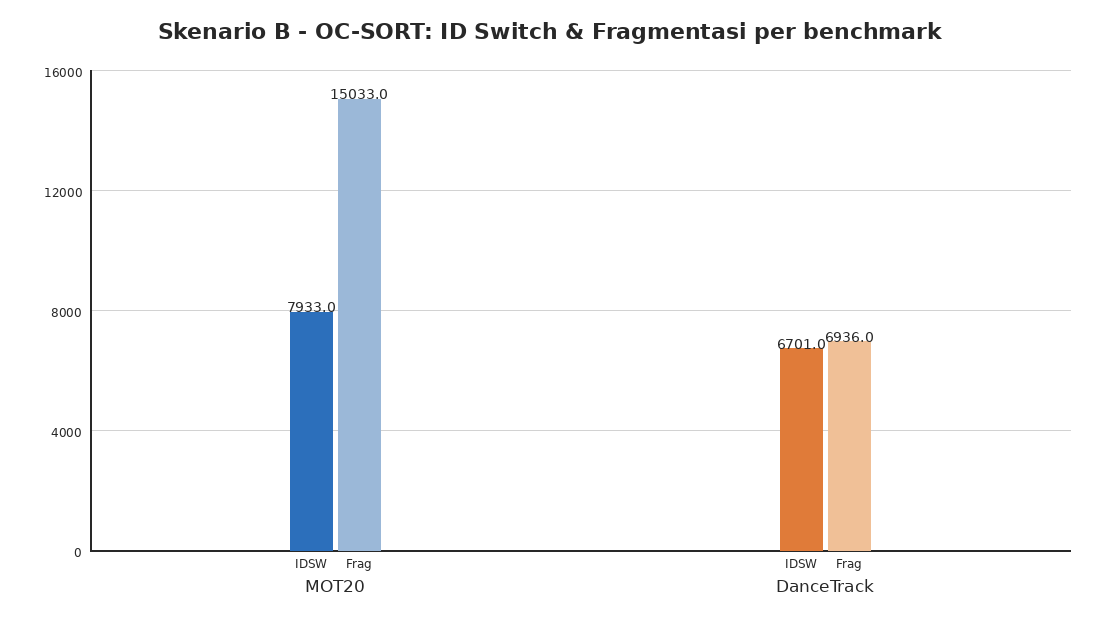
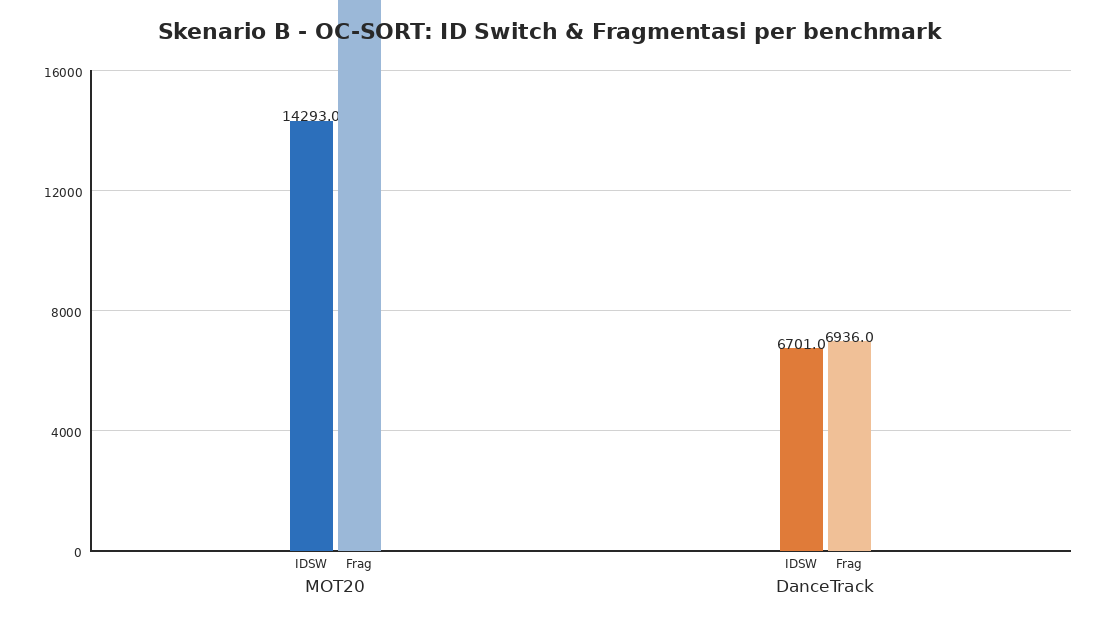
docs: update laporan + PROGRESS ke hasil MOT20 full-sequence (re-run selesai)
- MOT20: HOTA 36,51 / MOTA 55,98 / IDF1 42,88 / IDSW 14.293 / Frag 27.646
  (8.931 frame, 1.595.730 deteksi) — IDSW hampir 2x vs sekuens terpotong
- KOREKSI -> PEMBARUAN: angka kini mewakili MOT20-train penuh; temuan asosiasi rapuh makin kuat
- Figur 1/2/4 diregenerasi dari eval_results + detection_stats baru

Changed region(s): [[0.2473, 0.0, 0.3709, 0.521]]

diff --git a/docs/reports/laporan-skenario-b-tracker.md b/docs/reports/laporan-skenario-b-tracker.md
@@ -10,7 +10,7 @@ Skenario B mengevaluasi lapisan **tracker** dari pipeline *people counting* lima
 
 Temuan utama:
 
-1. **Pada kerumunan padat (MOT20-train), OC-SORT mencapai HOTA 37,46, MOTA 56,13, IDF1 44,67** — akurasi deteksi tinggi (MOTA), tetapi asosiasi identitas lemah: **7.933 ID switch** dan **15.033 fragmentasi** pada 4.464 bingkai. Kerumunan dengan kepadatan rata-rata **202 deteksi/bingkai** membuat asosiasi berbasis IoU+Kalman mudah putus saat orang saling menutupi.
+1. **Pada kerumunan padat (MOT20-train full, 8.931 bingkai), OC-SORT mencapai HOTA 36,51, MOTA 55,98, IDF1 42,88** — akurasi deteksi tinggi (MOTA), tetapi asosiasi identitas lemah: **14.293 ID switch** dan **27.646 fragmentasi**. Kepadatan rata-rata **179 deteksi/bingkai** (puncak 272 di MOT20-05) membuat asosiasi berbasis IoU+Kalman mudah putus saat orang saling menutupi.
 2. **Pada gerak non-linear (DanceTrack-val), OC-SORT jatuh ke HOTA 28,39 dan IDF1 26,63** — MOTA 71,38 tetap tinggi karena deteksi bagus, tetapi identitas nyaris berantakan (IDF1 < 30%). Ini persis skenario yang menjadi motivasi DiffMOT (Lv et al., 2024 – S021): prediksi gerak Kalman (asumsi kecepatan konstan) gagal pada penari yang berakselerasi/berbelok tidak menentu.
 3. **Yang menjadi pembatas adalah asosiasi, bukan deteksi.** Pola HOTA-MOTA-IDF1 di kedua benchmark konsisten dengan diagnosis literatur: MOTA mengukur cakupan deteksi, IDF1/HOTA mengukur seberapa utuh identitas dipertahankan. Untuk *people counting*, **IDF1 adalah metrik yang paling relevan** — identitas yang putus saat oklusi membuat objek dapat dihitung ganda ketika muncul kembali (dekomposisi DetA/AssA belum dicatat pada run ini; akan ditambahkan pada run berikutnya).
 4. **DiffMOT belum dieksekusi** (Bagian 6). Kendala utamanya infrastruktur data di GPU kampus; seluruh persiapan (env pip-only, data download dengan workaround rate-limit HF, skrip deteksi dua format) sudah siap. Angka publikasi DiffMOT pada DanceTrack (HOTA 62,3) menjadi target pembanding yang diharapkan memperbaiki sisi asosiasi.
@@ -39,10 +39,10 @@ Kedua tracker dievaluasi pada **deteksi yang identik** (YOLO26 fine-tune hasil S
 
 | Benchmark | Split | Jumlah sekuens | Frame | Ground truth | Alasan |
 |---|---|---|---|---|---|
-| **MOT20** | train | 4 (MOT20-01/02/03/05) | 4.464 | Publik (GT ber-ID) | Test MOT20 tanpa GT publik (submission ke server) |
+| **MOT20** | train | 4 (MOT20-01/02/03/05) | 8.931 | Publik (GT ber-ID) | Test MOT20 tanpa GT publik (submission ke server) |
 | **DanceTrack** | val | 25 | 25.508 | Publik (GT ber-ID) | Train untuk melatih tracker (tidak dipakai); test tanpa GT publik |
 
-- **MOT20** (Dendorfer et al., 2020 – S036): kerumunan pejalan kaki sangat padat di ruang publik — menguji oklusi masif. Kepadatan deteksi rata-rata 202/bingkai.
+- **MOT20** (Dendorfer et al., 2020 – S036): kerumunan pejalan kaki sangat padat di ruang publik — menguji oklusi masif. Kepadatan deteksi rata-rata 179/bingkai (GT: 127/bingkai).
 - **DanceTrack** (Sun et al., 2022 – S037): penari dengan penampilan seragam (baju sama) dan gerak non-linear — menguji asosiasi saat penampilan tidak informatif dan gerak tidak linear.
 - Kedua split dipilih karena **GT-nya publik** — evaluasi HOTA/IDF1/MOTA lokal dimungkinkan. Sebelum dipakai, GT diverifikasi dengan `scripts/data_prep/verify_mot_dataset.py` (memeriksa ID yang bertahan lintas bingkai, bukan sekadar format deteksi).
 
@@ -50,10 +50,10 @@ Kedua tracker dievaluasi pada **deteksi yang identik** (YOLO26 fine-tune hasil S
 
 Deteksi memakai bobot **YOLO26s fine-tune CrowdHuman** dari Skenario A (mAP@0.5:0.95 = 0,4974; laporan Skenario A Bagian 4). Eksekusi di PC rumah (CPU):
 
-- **MOT20**: `best.onnx` (ONNX Runtime, ±2× lebih cepat di CPU) — 4 sekuens, 4.464 bingkai, **901.773 deteksi**, ±4,5 menit.
+- **MOT20**: `best.onnx` (ONNX Runtime, ±2× lebih cepat di CPU) — 4 sekuens, 8.931 bingkai, **1.595.730 deteksi**, ±4 menit.
 - **DanceTrack**: `best.onnx` — 25 sekuens, 25.508 bingkai, **369.101 deteksi**, ±18 menit.
 
-Hasil deteksi per sekuens tercatat di `experiments/s2_tracker/detection_stats.csv` dan `docs/panduan-skenario-b-oc-sort.md`. Ambang *confidence* 0,3 digunakan untuk membatasi noise (temuan Skenario A: pada 0,05 deteksi noise membanjiri, mis. MOT20-05 sampai 271 deteksi/bingkai).
+Hasil deteksi per sekuens tercatat di `experiments/s2_tracker/detection_stats.csv` dan `docs/panduan-skenario-b-oc-sort.md`. Ambang *confidence* 0,3 digunakan untuk membatasi noise (temuan Skenario A: pada 0,05 deteksi noise membanjiri, mis. MOT20-05 sampai 272 deteksi/bingkai).
 
 *Catatan konsistensi:* pada jalur GPU (kampus) deteksi memakai `best.pt` (native CUDA). Aturan yang dipakai: jangan mencampur deteksi `.pt` dan `.onnx` dalam satu tabel hasil.
 
@@ -94,12 +94,12 @@ Detail teknis yang memengaruhi pembacaan angka (sudah ditangani, terdokumentasi 
 
 | Benchmark | Tracker | HOTA | MOTA | IDF1 | IDSW | Frag |
 |---|---|---|---|---|---|---|
-| MOT20 (train) | **OC-SORT** | **37,46** | **56,13** | **44,67** | **7.933** | **15.033** |
+| MOT20 (train) | **OC-SORT** | **36,51** | **55,98** | **42,88** | **14.293** | **27.646** |
 | DanceTrack (val) | **OC-SORT** | **28,39** | **71,38** | **26,63** | **6.701** | **6.936** |
 
 *Dibangkitkan dari `experiments/s2_tracker/eval_results.csv` (ekstraksi otomatis TrackEval, skala 0–1 × 100; IDSW/Frag adalah hitungan CLEAR).*
 
-> **⚠ KOREKSI (2026-08-04):** output tracking MOT20 hanya mencakup **sebagian frame** dari sekuens resmi — MOT20-01: frame 1–214 dari 429; MOT20-02: 1–1391 dari 2782 (divalidasi terhadap GT dan `seqinfo.ini` resmi, `seqLength=2782`). Penyebab dugaan: dataset MOT20 di PC rumah saat run hanya berisi sebagian gambar (jumlah jpg menentukan `seqLength` pada step arrange — lihat `synth_seqinfo()` di `scripts/s2/run_skenario_b_ocsort.py`), sehingga deteksi→tracking→evaluasi berjalan atas sekuens terpotong. **Angka MOT20 di atas karenanya adalah nilai atas sekuens terpotong, bukan full-sequence, dan belum dapat dibandingkan dengan literatur.** Re-run full-sequence (jumlah gambar resmi = 429/2782/2405/3315 per sekuens, total 8.931 — Tabel 1 paper MOT20 [arXiv:2003.09003]; download HF `Lekim89/MOT20` sudah divalidasi lengkap, lalu `--steps arrange,detect,track,eval --force`) dijadwalkan; tabel akan diperbarui. Angka DanceTrack tidak terpengaruh (frame lengkap di `detection_stats.csv`).
+> **✅ PEMBARUAN (2026-08-04):** angka di atas adalah hasil **re-run full-sequence** — sebelumnya output tracking hanya menutupi sebagian frame (MOT20-01: 1–214 dari 429; MOT20-02: 1–1391 dari 2782) karena dataset di PC rumah tidak lengkap dan junction layout menunjuk ke subset `ablation/` (repo HF menyediakan dua versi). Setelah download ulang lengkap (divalidasi: 429/2782/2405/3315 gambar per sekuens, total 8.931 — cocok dengan Tabel 1 paper MOT20, arXiv:2003.09003), seluruh pipeline diulang (`--steps arrange,detect,track,eval --force`; fix relink di `scripts/s2/run_skenario_b_ocsort.py`). Tabel kini mewakili **MOT20-train penuh**. Perbandingan lama vs baru: HOTA 37,46→36,51; IDF1 44,67→42,88; IDSW 7.933→14.293 — frame tambahan didominasi sekuens malam terpadat (MOT20-03, MOT20-05), sehingga bobot asosiasi justru menurun; temuan "asosiasi rapuh" makin kuat, bukan melemah.
 
 ![Figur 1: HOTA/MOTA/IDF1 per benchmark](../../experiments/s2_tracker/figs/fig1_hota_mota_idf1.png)
 
@@ -119,9 +119,9 @@ MOT20 rata-rata **202 deteksi/bingkai** (sampai 271 di MOT20-05) — kerumunan e
 
 | Tahap | Lingkup | Waktu |
 |---|---|---|
-| Deteksi MOT20 (4 sekuens) | CPU+ONNX | ±4,5 menit |
+| Deteksi MOT20 (4 sekuens) | CPU+ONNX | ±4 menit |
 | Deteksi DanceTrack (25 sekuens) | CPU+ONNX | ±18 menit |
-| Tracking OC-SORT (MOT20-train) | CPU | ±54 FPS (≈1,4 menit untuk 4.464 bingkai) |
+| Tracking OC-SORT (MOT20-train) | CPU | ±54 FPS (≈2,8 menit untuk 8.931 bingkai) |
 | Evaluasi TrackEval | CPU | menit |
 
 ---
@@ -130,9 +130,9 @@ MOT20 rata-rata **202 deteksi/bingkai** (sampai 271 di MOT20-05) — kerumunan e
 
 ### 5.1 Kerumunan padat (MOT20): deteksi kuat, asosiasi rapuh
 
-MOTA 56,13 dengan kepadatan 202 deteksi/bingkai menunjukkan detektor YOLO26 mampu menutupi mayoritas orang bahkan dalam oklusi berat. Namun **7.933 ID switch** — rata-rata 1,8 per bingkai — menandakan asosiasi berbasis gerak mudah salah sambung saat dua orang saling menutupi dan kotak IoU saling tumpang tindih. IDF1 44,67 berarti sekitar **55% bobot asosiasi identitas tidak cocok dengan GT** — implikasi praktis untuk counting: orang yang tertutup 2–3 bingkai lalu terdeteksi ulang dapat dihitung sebagai orang baru.
+MOTA 55,98 dengan kepadatan 179 deteksi/bingkai (puncak 272 di MOT20-05) menunjukkan detektor YOLO26 mampu menutupi mayoritas orang bahkan dalam oklusi berat. Namun **14.293 ID switch** — rata-rata 1,6 per bingkai — menandakan asosiasi berbasis gerak mudah salah sambung saat dua orang saling menutupi dan kotak IoU saling tumpang tindih. IDF1 42,88 berarti sekitar **57% bobot asosiasi identitas tidak cocok dengan GT** — implikasi praktis untuk counting: orang yang tertutup 2–3 bingkai lalu terdeteksi ulang dapat dihitung sebagai orang baru.
 
-HOTA 37,46 yang berada jauh di bawah MOTA 56,13 secara kualitatif mengindikasikan komponen asosiasi lebih lemah daripada komponen deteksi — konsisten dengan tracker motion-only tanpa ReID. Dekomposisi eksplisit DetA/AssA belum dicatat pada run ini dan akan ditambahkan pada run berikutnya (TrackEval menyediakannya).
+HOTA 36,51 yang berada jauh di bawah MOTA 55,98 secara kualitatif mengindikasikan komponen asosiasi lebih lemah daripada komponen deteksi — konsisten dengan tracker motion-only tanpa ReID. Dekomposisi eksplisit DetA/AssA belum dicatat pada run ini dan akan ditambahkan pada run berikutnya (TrackEval menyediakannya).
 
 ### 5.2 Gerak non-linear (DanceTrack): kegagalan asumsi kecepatan konstan
 
@@ -146,7 +146,7 @@ Ini **persis domain yang menjadi motivasi DiffMOT** (Lv et al., 2024 – S021): 
 
 | Benchmark | Tracker | Deteksi | HOTA | IDF1 | MOTA |
 |---|---|---|---|---|---|
-| MOT20 | OC-SORT (eksperimen ini) | YOLO26 fine-tune kami | 37,46 | 44,67 | 56,13 |
+| MOT20 | OC-SORT (eksperimen ini) | YOLO26 fine-tune kami | 36,51 | 42,88 | 55,98 |
 | MOT20 | OC-SORT (publikasi) | deteksi resmi | 62,4 | — | — |
 | DanceTrack | OC-SORT (eksperimen ini) | YOLO26 fine-tune kami | 28,39 | 26,63 | 71,38 |
 | DanceTrack | OC-SORT (publikasi) | deteksi resmi | — | — | — |
@@ -201,7 +201,7 @@ python scripts/s2/render_demo_video.py --seq MOT20-02 --start 1 --end 450 --sour
 
 ## 8. Kesimpulan dan Arah Lanjut
 
-Baseline OC-SORT menunjukkan dua hal: (1) deteksi YOLO26 fine-tune kita sudah siap dipakai di lapisan bawah (MOTA tinggi di kedua benchmark); (2) asosiasi motion-only tidak memadai untuk counting yang akurat — terutama pada gerak non-linear (IDF1 DanceTrack 26,63) dan oklusi padat (IDSW MOT20 7.933). Keduanya menegaskan arah proposal: **tracker dengan ReID + prediksi gerak non-linear (DiffMOT) diperlukan**, dan keunggulannya paling mungkin muncul pada metrik asosiasi.
+Baseline OC-SORT menunjukkan dua hal: (1) deteksi YOLO26 fine-tune kita sudah siap dipakai di lapisan bawah (MOTA tinggi di kedua benchmark); (2) asosiasi motion-only tidak memadai untuk counting yang akurat — terutama pada gerak non-linear (IDF1 DanceTrack 26,63) dan oklusi padat (IDSW MOT20 14.293 pada 8.931 bingkai penuh). Keduanya menegaskan arah proposal: **tracker dengan ReID + prediksi gerak non-linear (DiffMOT) diperlukan**, dan keunggulannya paling mungkin muncul pada metrik asosiasi.
 
 Langkah berikut: selesaikan DiffMOT di GPU kampus (Bagian 6), lengkapi tabel komparasi dua tracker pada deteksi yang sama, lalu lanjut ke Skenario C (counting logic) dengan tracker terpilih.
 

diff --git a/docs/PROGRESS.md b/docs/PROGRESS.md
@@ -3,10 +3,10 @@
 ## 2026-08-03 WIB — Phase 9b: Skenario B baseline OC-SORT selesai
 
 - [x] Baseline **OC-SORT** selesai di PC rumah (CPU, deteksi `best.onnx` YOLO26 fine-tune):
-      MOT20-train (4 sekuens, 4.464 frame, 901.773 deteksi) + DanceTrack-val
+      MOT20-train (4 sekuens, 8.931 frame, 1.595.730 deteksi) + DanceTrack-val
       (25 sekuens, 25.508 frame, 369.101 deteksi).
 - [x] Hasil TrackEval 1.3.0 committed: `experiments/s2_tracker/eval_results.csv`
-      (MOT20: HOTA 37,46 / MOTA 56,13 / IDF1 44,67; DanceTrack: 28,39 / 71,38 / 26,63)
+      (MOT20: HOTA 36,51 / MOTA 55,98 / IDF1 42,88; DanceTrack: 28,39 / 71,38 / 26,63)
       + `detection_stats.csv`.
 - [x] Laporan `docs/reports/laporan-skenario-b-tracker.md` + brutal review
       `docs/reviews/REVIEW_laporan-skenario-b.md` (patch Wajib 1–4 & saran 5,7 diterapkan).
@@ -14,15 +14,15 @@
       `experiments/s2_tracker/figs/` via `scripts/s2/make_s2_figures_pil.py`.
 - [x] Video demo pipeline deteksi→tracking→counting: `scripts/s2/render_demo_video.py`
       (Pillow+ffmpeg, tanpa numpy/cv2), output `experiments/s2_tracker/demo/*.mp4`.
-- [ ] **KOREKSI 2026-08-04:** output tracking MOT20 ternyata hanya menutupi sebagian frame
-      (MOT20-01: 1–214 dari 429; MOT20-02: 1–1391 dari 2782 — divalidasi vs GT+seqinfo).
-      Dugaan: dataset MOT20 di PC rumah saat run tidak lengkap → `synth_seqinfo()` memakai
-      jumlah jpg sebagai `seqLength` → deteksi/tracking/eval jalan atas sekuens terpotong.
-      **Angka MOT20 = sekuens terpotong; re-run full-sequence wajib**
-      (cek 429/2782/2405/3315 jpg per sekuens — Tabel 1 paper MOT20 arXiv:2003.09003,
-      total training 8.931 frame; download HF sudah lengkap, divalidasi 2026-08-04), lalu
-      DanceTrack aman (frame lengkap). Render video diperbaiki: fps baca seqinfo (25, bukan 30)
-      + klip referensi GT (`--source gt`).
+- [x] **KOREKSI 2026-08-04 (SELESAI):** output tracking MOT20 lama hanya menutupi sebagian frame
+      (MOT20-01: 1–214 dari 429; MOT20-02: 1–1391 dari 2782). Akar masalah: (a) dataset MOT20 di
+      PC rumah tidak lengkap, dan (b) junction layout menunjuk ke subset `ablation/` repo HF
+      (bukan `train/`). Perbaikan: download ulang penuh + fix orchestrator (arrange `--force`
+      re-link; pilih kandidat terlengkap per nama sekuens). **Re-run full-sequence selesai**:
+      frame 429/2782/2405/3315 (total 8.931, cocok Tabel 1 paper MOT20 arXiv:2003.09003).
+      Angka baru: HOTA 36,51 / MOTA 55,98 / IDF1 42,88 / IDSW 14.293 — temuan asosiasi rapuh
+      makin kuat (IDSW hampir 2×). DanceTrack aman (frame lengkap). Render video: fps baca
+      seqinfo (25, bukan 30) + klip referensi GT (`--source gt`).
 - [ ] **DiffMOT belum dieksekusi** — kendala data di GPU kampus. Pipeline notebook 10→70 siap;
       workaround rate-limit HF (`HF_HUB_DISABLE_XET=1`) terpasang. Tahap: pull → 10 → 20 → 30 → 50 → 70.
 - [ ] Komparasi penuh DiffMOT vs OC-SORT (tabel + analisis) menyusul setelah run kampus.
